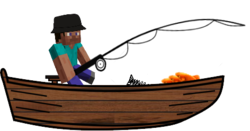
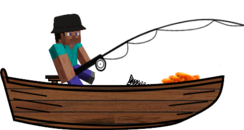
test

Changed region(s): [[0.0, 0.0923, 1.0, 1.0], [0.0, 0.4923, 0.0287, 0.5538]]

diff --git a/build/app.js b/build/app.js
@@ -9,6 +9,8 @@ class Game {
             }
             this.draw();
             this.move();
+            this.drawHengel(this.ctx);
+            this.hengel.move(this.canvas);
             this.player.playerCollidesWithRocket(this.rockets);
             this.player.move(this.canvas);
             if (this.keyBoard.isKeyDown(KeyboardListener.KEY_F11)) {
@@ -23,8 +25,9 @@ class Game {
         this.rockets = [];
         this.keyBoard = new KeyboardListener;
         console.log(this.rockets);
-        this.player = new Player('Me', this.canvas.width / 2, this.canvas.height / 2 - 80, 5, "./assets/mcboot.png");
+        this.player = new Player('Me', this.canvas.width / 2.25, this.canvas.height / 2 - 80, 5, "./assets/mcboot.png");
         console.log(this.player);
+        this.hengel = new Hengel(this.canvas.height / 2 - 60, 3, "./assets/hook.png");
         this.score = 0;
         this.loop();
         this.counter = 0;
@@ -46,6 +49,15 @@ class Game {
         this.rockets.forEach((rocket) => {
             rocket.move();
         });
+    }
+    drawHengel(ctx) {
+        ctx.drawImage(this.hengel.image, this.player.xPosition + this.player.image.width - 50, this.hengel.yPosition);
+        ctx.strokeStyle = 'black';
+        ctx.lineWidth = 2;
+        ctx.beginPath();
+        ctx.moveTo(this.player.xPosition + this.player.image.width, this.player.yPosition + 25);
+        ctx.lineTo(this.player.xPosition + this.player.image.width - 10, this.hengel.yPosition + 10);
+        ctx.stroke();
     }
     draw() {
         this.ctx.clearRect(0, 0, this.canvas.width, this.canvas.height);
@@ -81,35 +93,15 @@ class GameItem {
     get yPosition() {
         return this._yPosition;
     }
+    get image() {
+        return this._image;
+    }
     loadNewImage(source) {
         const img = new Image();
         img.src = source;
         return img;
     }
 }
-class KeyboardListener {
-    constructor() {
-        this.keyDown = (ev) => {
-            this.keyCodeStates[ev.keyCode] = true;
-        };
-        this.keyUp = (ev) => {
-            this.keyCodeStates[ev.keyCode] = false;
-        };
-        this.keyCodeStates = new Array();
-        window.addEventListener("keydown", this.keyDown);
-        window.addEventListener("keyup", this.keyUp);
-    }
-    isKeyDown(keyCode) {
-        return this.keyCodeStates[keyCode] === true;
-    }
-}
-KeyboardListener.KEY_SPACE = 32;
-KeyboardListener.KEY_LEFT = 37;
-KeyboardListener.KEY_UP = 38;
-KeyboardListener.KEY_RIGHT = 39;
-KeyboardListener.KEY_DOWN = 40;
-KeyboardListener.KEY_R = 82;
-KeyboardListener.KEY_F11 = 122;
 class Player extends GameItem {
     constructor(name, xPos, yPos, speed, image) {
         super(name, xPos, yPos, speed, image);
@@ -157,6 +149,57 @@ class Player extends GameItem {
         ctx.drawImage(this._image, this._xPosition, this._yPosition);
     }
 }
+class Hengel {
+    constructor(yPos, speed, image) {
+        this.maxY = yPos;
+        this._yPosition = yPos;
+        this.speed = speed;
+        this.keyBoard = new KeyboardListener();
+        this._image = this.loadNewImage(image);
+    }
+    get yPosition() {
+        return this._yPosition;
+    }
+    get image() {
+        return this._image;
+    }
+    move(canvas) {
+        if (this.keyBoard.isKeyDown(KeyboardListener.KEY_UP) && this._yPosition > this.maxY) {
+            this._yPosition -= this.speed;
+        }
+        if (this.keyBoard.isKeyDown(KeyboardListener.KEY_DOWN) && this._yPosition < canvas.height - 50) {
+            this._yPosition += this.speed;
+        }
+    }
+    loadNewImage(source) {
+        const img = new Image();
+        img.src = source;
+        return img;
+    }
+}
+class KeyboardListener {
+    constructor() {
+        this.keyDown = (ev) => {
+            this.keyCodeStates[ev.keyCode] = true;
+        };
+        this.keyUp = (ev) => {
+            this.keyCodeStates[ev.keyCode] = false;
+        };
+        this.keyCodeStates = new Array();
+        window.addEventListener("keydown", this.keyDown);
+        window.addEventListener("keyup", this.keyUp);
+    }
+    isKeyDown(keyCode) {
+        return this.keyCodeStates[keyCode] === true;
+    }
+}
+KeyboardListener.KEY_SPACE = 32;
+KeyboardListener.KEY_LEFT = 37;
+KeyboardListener.KEY_UP = 38;
+KeyboardListener.KEY_RIGHT = 39;
+KeyboardListener.KEY_DOWN = 40;
+KeyboardListener.KEY_R = 82;
+KeyboardListener.KEY_F11 = 122;
 class Rocket extends GameItem {
     constructor(name, xPos, yPos, speed, type, image) {
         super(name, xPos, yPos, speed, image);

diff --git a/src/Game.ts b/src/Game.ts
@@ -6,6 +6,7 @@ class Game {
     private ctx: CanvasRenderingContext2D;
     private counter: number;
     private keyBoard: KeyboardListener;
+    private hengel: Hengel;
 
     public constructor(canvasId: HTMLCanvasElement) {
         // Construct all of the canvas
@@ -19,11 +20,13 @@ class Game {
         console.log(this.rockets);
 
         this.player = new Player('Me', 
-        this.canvas.width / 2, 
+        this.canvas.width / 2.25, 
         this.canvas.height / 2 - 80,
         5,
         "./assets/mcboot.png");
         console.log(this.player);
+
+        this.hengel = new Hengel(this.canvas.height / 2 - 60, 3,"./assets/hook.png")
 
         this.score = 0;
         this.loop();
@@ -41,13 +44,13 @@ class Game {
         }
         this.draw();
         this.move();
+        this.drawHengel(this.ctx)
+        this.hengel.move(this.canvas)
         this.player.playerCollidesWithRocket(this.rockets);
         this.player.move(this.canvas);
         if (this.keyBoard.isKeyDown(KeyboardListener.KEY_F11)){
             location.reload()
         }
-
-
 
         requestAnimationFrame(this.loop);
     };
@@ -80,6 +83,21 @@ class Game {
             });
     }
 
+          /**
+     * 
+     * @param ctx 
+     * draws the rocket
+     */
+    public drawHengel(ctx: CanvasRenderingContext2D){
+        ctx.drawImage(this.hengel.image, this.player.xPosition + this.player.image.width - 50, this.hengel.yPosition)
+        ctx.strokeStyle = 'black';
+        ctx.lineWidth = 2;
+        ctx.beginPath();
+        ctx.moveTo(this.player.xPosition + this.player.image.width,this.player.yPosition + 25)
+        ctx.lineTo(this.player.xPosition + this.player.image.width - 10,this.hengel.yPosition + 10)
+        ctx.stroke()
+    }
+
 
     /**
      * Draws all the necessary elements to the canvas
@@ -87,6 +105,7 @@ class Game {
     public draw() {
         this.ctx.clearRect(0, 0, this.canvas.width, this.canvas.height);
         this.player.draw(this.ctx);
+        
         // when there are elements in the rocket array
         if (this.rockets.length != 0) {
             // clear the canvas

diff --git a/src/Hengel.ts b/src/Hengel.ts
@@ -1,0 +1,49 @@
+/// <reference path="./Player.ts" />
+
+
+class Hengel{
+    private keyBoard: KeyboardListener;
+    private maxY: number;
+    private _yPosition: number;
+    private speed: number
+    private _image: HTMLImageElement;
+
+    public constructor(yPos: number, speed: number, image: string){
+        this.maxY = yPos
+        this._yPosition = yPos
+        this.speed = speed
+        this.keyBoard = new KeyboardListener();
+        this._image = this.loadNewImage(image)
+    }
+
+
+    get yPosition(): number{
+        return this._yPosition
+    }
+
+    get image(): HTMLImageElement{
+        return this._image;
+    }
+
+    public move(canvas: HTMLCanvasElement){
+        if (this.keyBoard.isKeyDown(KeyboardListener.KEY_UP) && this._yPosition > this.maxY){
+            this._yPosition -= this.speed
+        }
+        if (this.keyBoard.isKeyDown(KeyboardListener.KEY_DOWN)&& this._yPosition < canvas.height - 50){
+            this._yPosition += this.speed
+        }
+    }
+
+              /**
+     * Loads an image so it doesn't flicker
+     * @param {HTMLImageElement} source
+     * @return HTMLImageElement - returns an image
+     */
+    protected loadNewImage(source: string): HTMLImageElement {
+        const img = new Image();
+        img.src = source;
+        return img;
+    }
+
+  
+}

diff --git a/src/GameItem.ts b/src/GameItem.ts
@@ -21,6 +21,10 @@ abstract class GameItem{
         return this._yPosition
     }
 
+    get image(): HTMLImageElement{
+        return this._image;
+    }
+
             /**
      * Loads an image so it doesn't flicker
      * @param {HTMLImageElement} source

diff --git a/src/Player.ts b/src/Player.ts
@@ -1,3 +1,4 @@
+
 class Player extends GameItem{
     private radius: number;
     private keyBoardListener: KeyboardListener;
